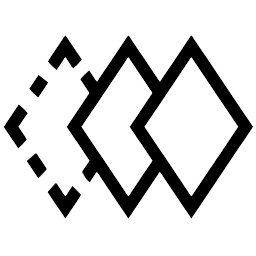
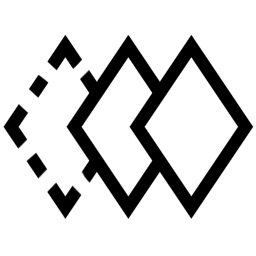
ico~ico~ico~

diff --git a/docs/.vuepress/config.js b/docs/.vuepress/config.js
@@ -3,7 +3,7 @@ module.exports = {
     title: '罗德文档',
     description: '共建良好开发生态',
     head: [
-        ['link', {rel: 'icon', href: '/rdoc.ico.png'}],
+        ['link', {rel: 'icon', href: '/rdoc.ico.ico'}],
     ],
     themeConfig: {
         nav: [
